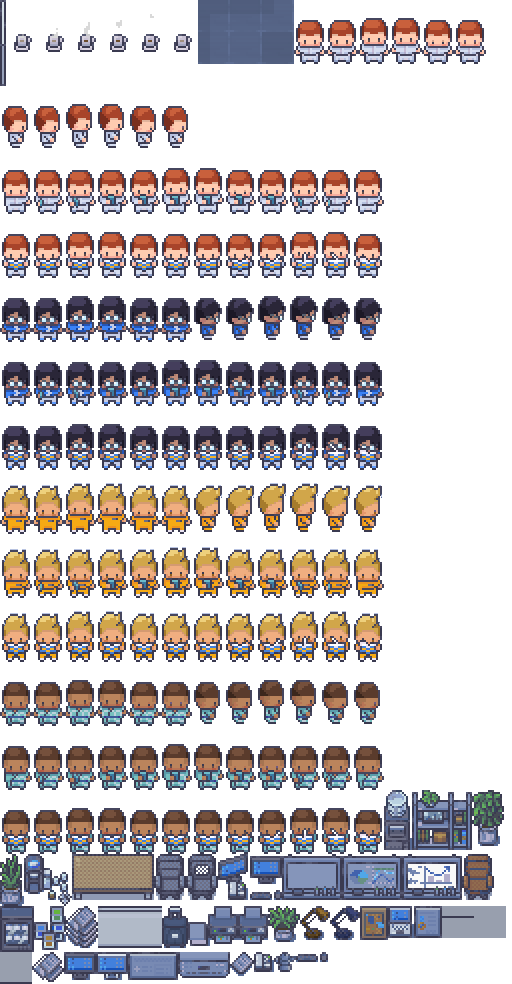
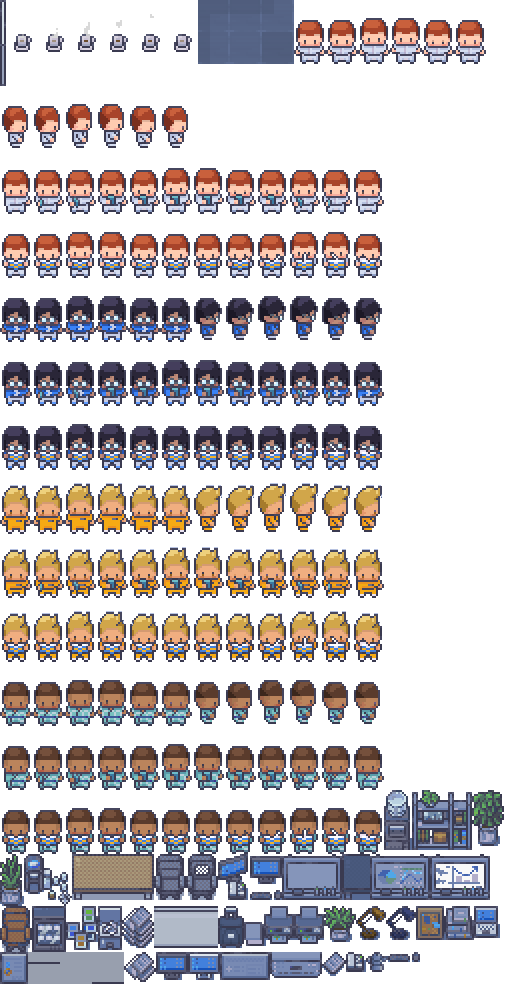
Narrow every chapter wall piece, and let the four rooms agree on one threshold
Ара and Эхо carried a 60px shelf unit beside the desk and Веда a 60px
whiteboard, against Нова's 34px cabinet. The gap beside a chapter desk is
43 art px on a 1024px viewport and only reaches 66 once the stage stops
growing, so on a common laptop width Нова had furniture there and the
other three had bare wall — the same fault as her blank slab, inverted.

All four pieces are now narrow enough for that gap, and all four come from
the same singles family as the cabinet, built out of the same dark frame,
face and plinth so the rooms read as one office:

  Ара   SHELF_FILES  30x34  an open shelf of folders and papers
  Веда  SHREDDER     24x44  beside the printer she already has
  Эхо   BOARD_STAND  28x46  a board on a stand
  Нова  CABINET      34x46  unchanged

Веда gets the shredder rather than the board because her printer stands at
the front of this same gap and covers the lowest twelve pixels of whatever
is behind it: the shredder still reads with its foot hidden, the board —
which is a face, a base rail and two legs — does not. Her wall is the only
one of the four with anything in front of it.

Widths alone would still have staggered them, since the pieces differ by a
few pixels, so the fit test is now one shared threshold: the widest of the
four. Every room shows its piece or none of them do.

SHELF_FILES and SHREDDER carry the same two-column #a79796 bleed fragment
from the object beside them on their own tiles that CABINET did, so both
[…]

Changed region(s): [[0.0, 0.8537, 1.0, 1.0]]

diff --git a/src/office/scenes.js b/src/office/scenes.js
@@ -310,15 +310,33 @@ export function drawHero(ctx, img, v) {
 // page floats over it — so the character of each room is carried by its
 // front row, which sits low in the frame and can hold the tall things.
 const CHAPTER_KIT = {
-  // reception: somewhere for whoever walks in to sit
-  ara: { left: ["SHELF_UNIT", "stand"], front: ["CHAIR_ORANGE", "PLANT", "PLANT_3"] },
-  // the analyst: the month on the wall, the printer, the files
-  veda: { left: ["WHITEBOARD_CHART", "hang"], front: ["CABINET", "PLANT_3", "PLANT"] },
-  // the phone desk: the corner people actually stand in between calls
-  eho: { left: ["SHELF_UNIT", "stand"], front: ["COFFEE", "COOLER", "PLANT", "PLANT_3"] },
+  // reception: the folders whoever walks in gets handed, and a seat to wait in
+  ara: { left: ["SHELF_FILES", "stand"], front: ["CHAIR_ORANGE", "PLANT", "PLANT_3"] },
+  // the analyst: what she prints and what she shreds, either side of the desk.
+  // Her printer stands at the front of this same gap and covers the lowest
+  // twelve pixels of whatever is on the wall behind it, so her piece has to be
+  // one that still reads with its foot hidden — the board does not.
+  veda: { left: ["SHREDDER", "stand"], front: ["CABINET", "PLANT_3", "PLANT"] },
+  // the phone desk: the corner people actually stand in between calls, and
+  // the board they keep the day's numbers on
+  eho: { left: ["BOARD_STAND", "stand"], front: ["COFFEE", "COOLER", "PLANT", "PLANT_3"] },
   // customer manager: a seat for whoever comes back, and something growing
   nova: { left: ["CABINET", "stand"], front: ["PLANT", "CHAIR_ORANGE", "PLANT_3", "COOLER"] },
 };
+
+// All four rooms show their wall piece or none of them do. The four pieces
+// differ by a few pixels of width, and testing each against its own width
+// made them cross the threshold one at a time as the window widened: on a
+// 1024px viewport Нова's 34px cabinet stood beside her desk while the other
+// three rooms, whose pieces were wider, had bare wall. One threshold — the
+// widest of the four — so the rooms always agree with each other. The filter
+// matches the guard at the draw site: a kit is allowed to name no wall piece,
+// and must not take the whole module down at import if it does.
+const WALL_PIECE_W = Math.max(
+  ...Object.values(CHAPTER_KIT)
+    .filter((k) => k.left)
+    .map((k) => SPRITES[k.left[0]].w),
+);
 
 // Where a sprite stands on a floor line: its feet sink four pixels into the
 // carpet, and it lays a contact shadow before it draws. Without the shadow a
@@ -404,20 +422,18 @@ export function drawChapter(id) {
     const kit = CHAPTER_KIT[id];
 
     // ---- the back wall left of the panel, where height is unconstrained
-    // The tolerance matters: these pieces are 60 art px wide and the room is
-    // only just wide enough for one beside the desk, so a strict test against
-    // panelX drops them entirely the moment anything else moves. It can be
-    // loose because the panel's lower edge sits above this piece's lower half
-    // — the most that can ever go behind it is a corner a few pixels across.
+    // The gap beside the desk is all the room a wall piece has, and it is
+    // narrow: 43 art px on a 1024px viewport, 66 once the frame stops
+    // growing and the stage is as wide as it will get. The
+    // tolerance can reach a little past panelX because the panel's lower edge
+    // sits above this piece's lower half — the most that can ever go behind
+    // it is a corner a few pixels across.
     const gapX = deskX + s.deskW + 2;
     const gap = panelX + 12 - gapX;
-    if (kit.left) {
+    if (kit.left && gap >= WALL_PIECE_W) {
       const [lid, mode] = kit.left;
-      const lw = SPRITES[lid].w;
-      if (gap >= lw) {
-        if (mode === "stand") stand(ctx, img, lid, gapX, floorY);
-        else sprite(ctx, img, lid, gapX, floorY - SPRITES[lid].h - 6);
-      }
+      if (mode === "stand") stand(ctx, img, lid, gapX, floorY);
+      else sprite(ctx, img, lid, gapX, floorY - SPRITES[lid].h - 6);
     }
 
     // Nothing goes on the wall to the right of the desk. Measured across the

diff --git a/scripts/build-staff-pack.py b/scripts/build-staff-pack.py
@@ -238,6 +238,7 @@ def props():
         "PLANT_2": single(O(99)),
         "PLANT_3": single(O(100)),
         "WHITEBOARD": single(O(170)),
+        "BOARD_STAND": single(O(213)),
         "COFFEE": single(O(317)),
         "MUG": single(K(182)),
         "STICKY": single(B(452)),
@@ -268,6 +269,15 @@ def props():
     # own tile carries two columns of bleed from the object beside it (only 16
     # opaque rows deep), so the crop stops at x=50 rather than at the alpha box.
     S["CABINET"] = (rule_colours(crop_alpha(Image.open(O(174)).convert("RGBA").crop((16, 32, 50, 78))), furniture_rule), {})
+    # The other two wall pieces beside a chapter desk, cropped the same way
+    # and from the same family: a shelf of files and a shredder, both built
+    # like CABINET out of a dark frame, a face and a plinth. Each carries the
+    # same two-column bleed fragment of the object beside it on its own tile —
+    # a flat #a79796 strip a third as deep as the piece — so both crops stop
+    # short of the alpha box on the right. Tile 213, the board on a stand, is
+    # clean and needs no crop; it is a plain single above.
+    S["SHELF_FILES"] = (rule_colours(crop_alpha(Image.open(O(156)).convert("RGBA").crop((0, 58, 30, 92))), furniture_rule), {})
+    S["SHREDDER"] = (rule_colours(crop_alpha(Image.open(O(169)).convert("RGBA").crop((4, 32, 28, 76))), furniture_rule), {})
     # the coffee machine's steam: six 32x64 frames (steam row over mug row)
     cf = Image.open(LZ / "moderninteriors-win" / "3_Animated_objects" / "32x32" / "spritesheets" / "animated_coffee_32x32.png").convert("RGBA")
     strip = Image.new("RGBA", (6 * 32, 64))
